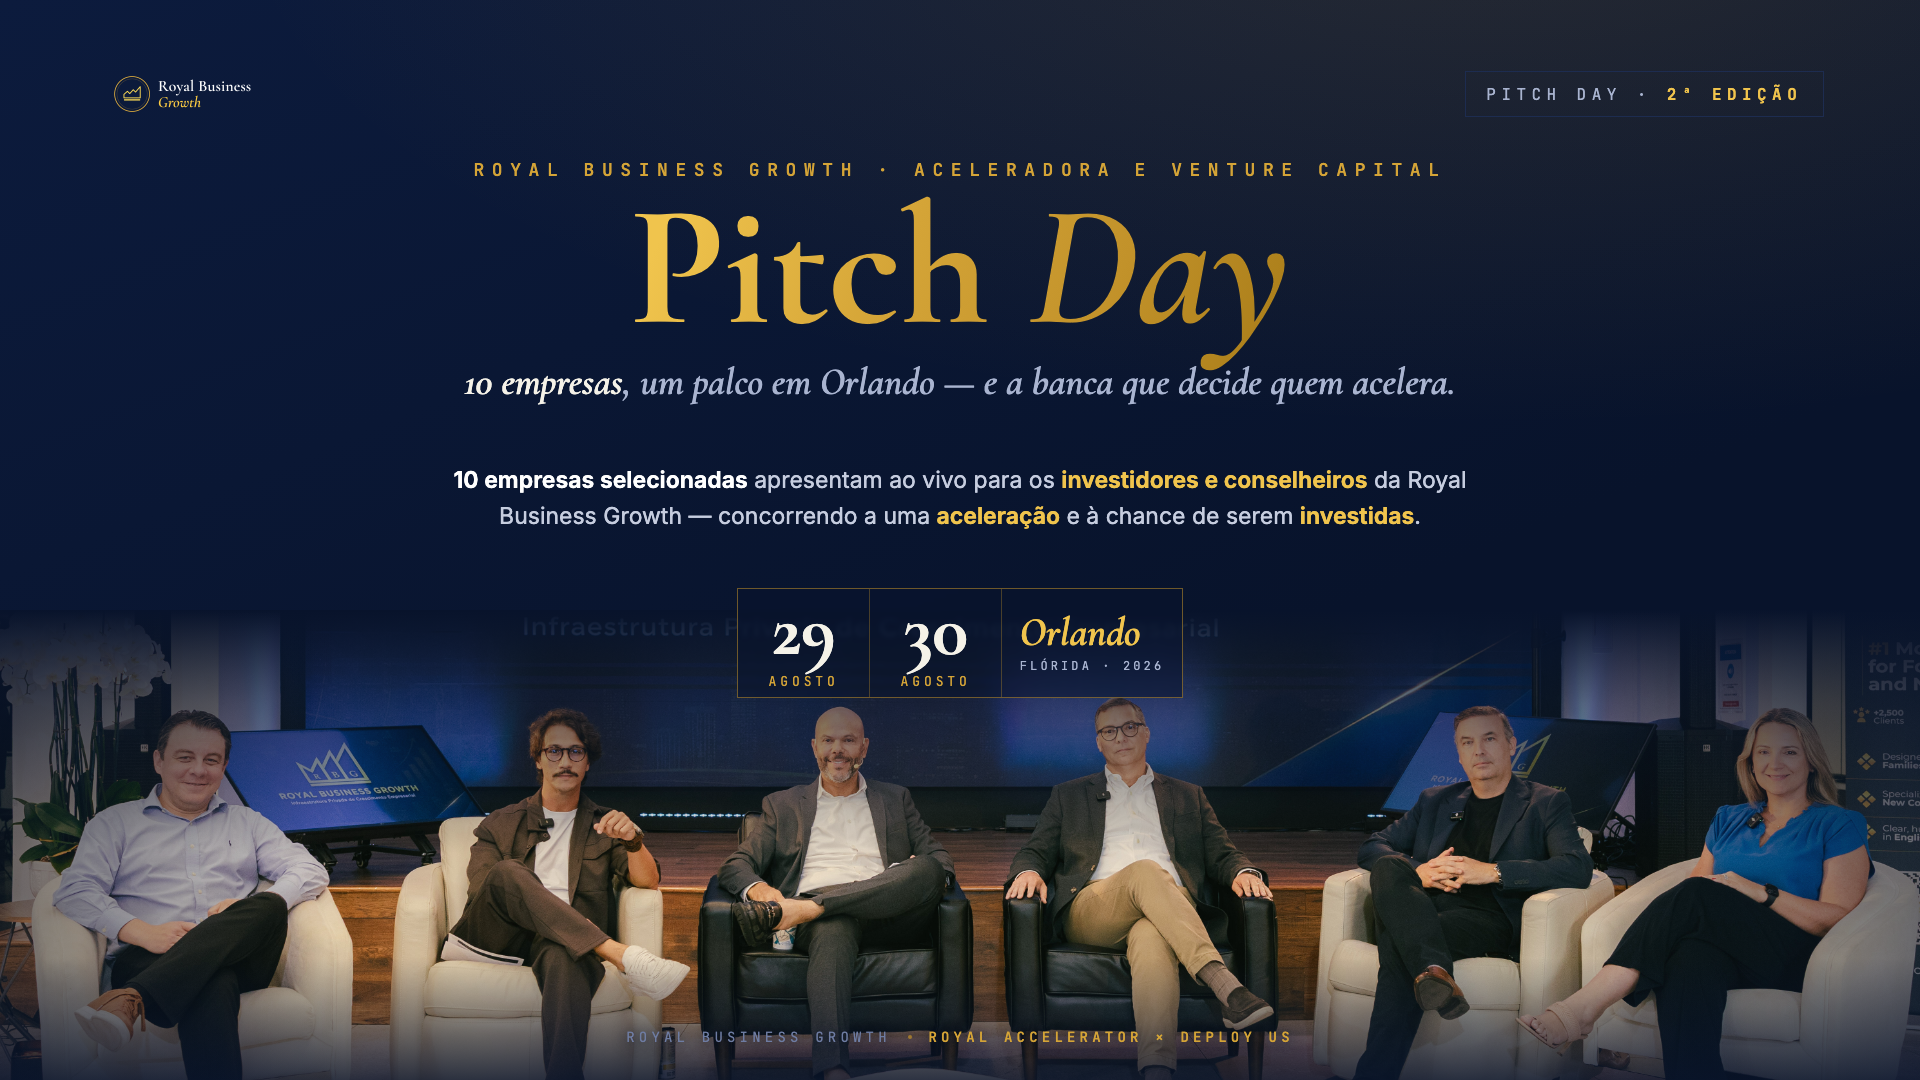
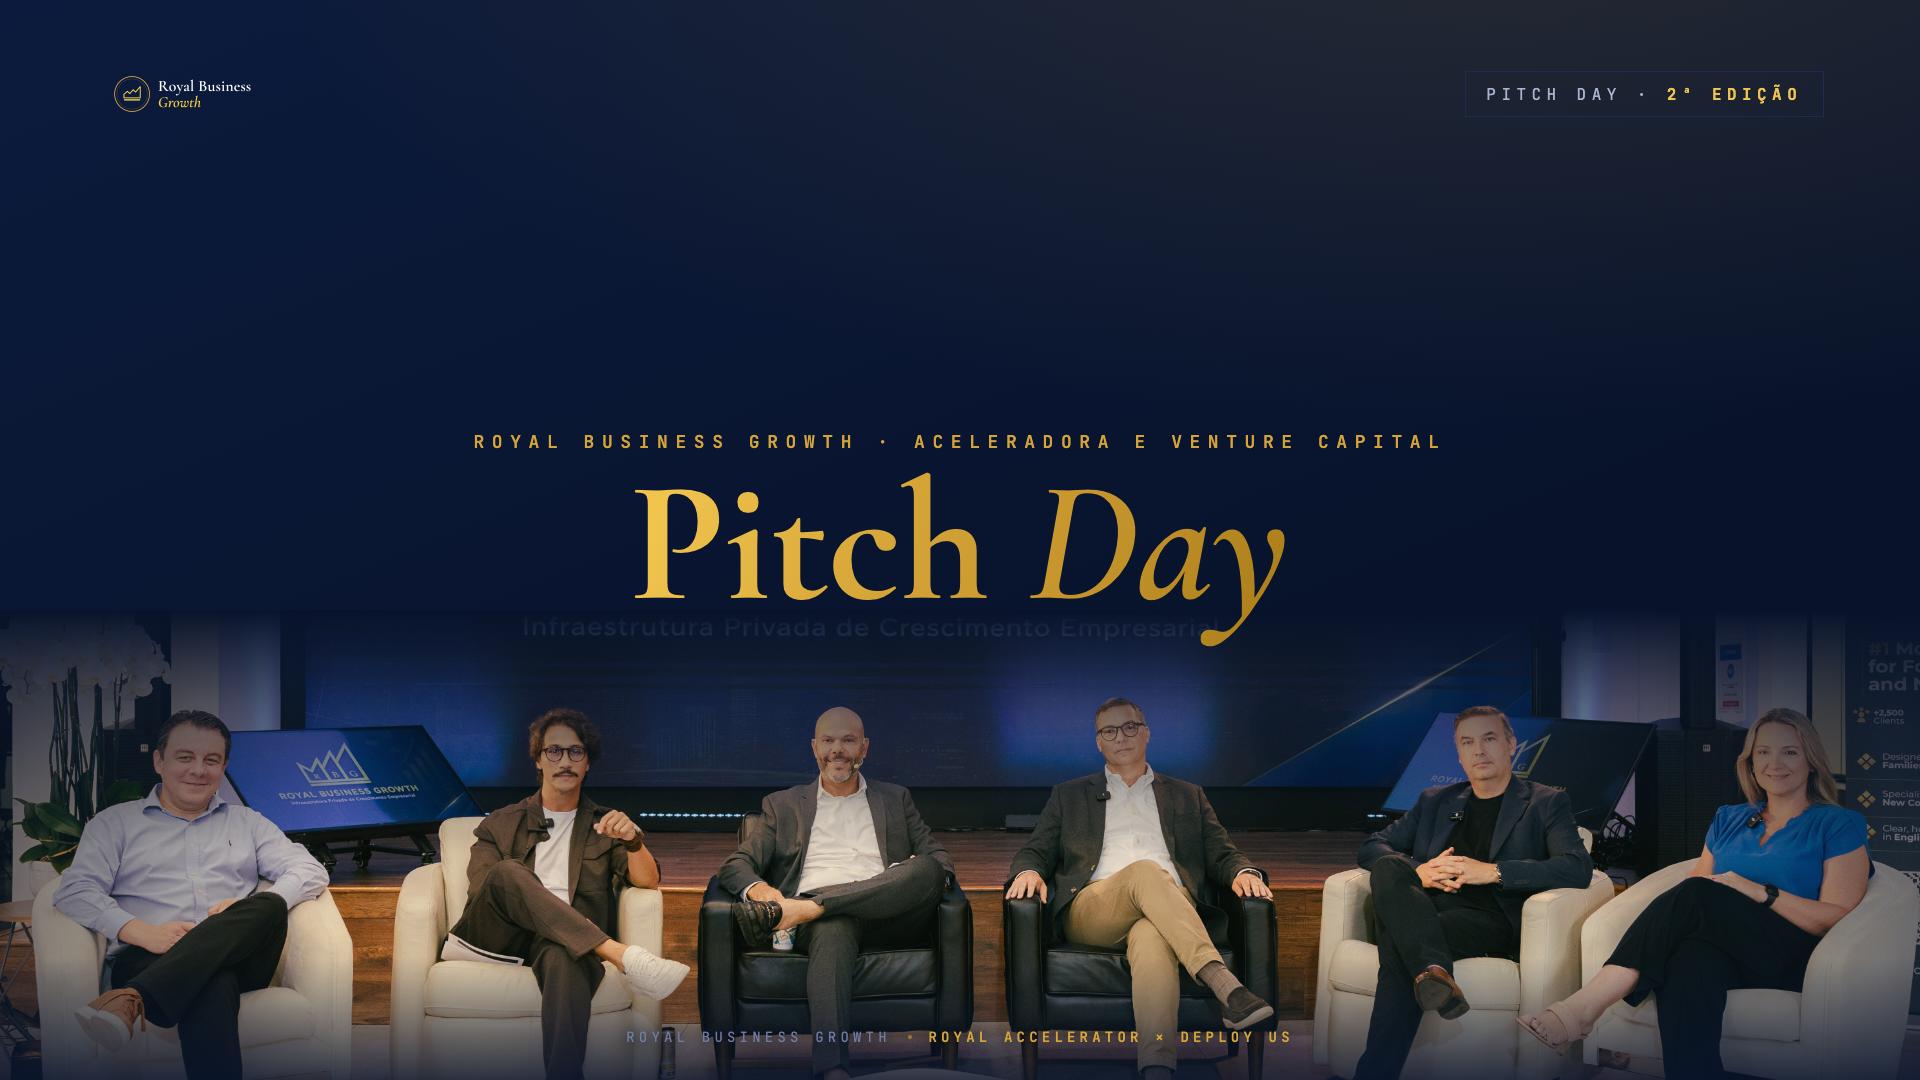
Simplify principal poster: drop company blurb and date box
Removes the "10 empresas" subtitle, the companies paragraph, and the
29/30 Agosto · Orlando date box. Pitch Day title moves down to sit
right where the date box was, close to the photo.

Claude-Session: https://claude.ai/code/session_019ZK6DnTAqSpNsSqcEorbQM

diff --git a/divulgacao/pitch-day-2/src/principal-1920x1080.html b/divulgacao/pitch-day-2/src/principal-1920x1080.html
@@ -11,30 +11,17 @@ body{width:1920px;height:1080px;position:relative}
 .photo::after{content:'';position:absolute;inset:0;
   background:linear-gradient(90deg, rgba(8,19,43,.5), rgba(8,19,43,0) 18% 82%, rgba(8,19,43,.5))}
 /* conteúdo superior */
-.top{position:absolute;left:0;right:0;top:0;height:640px;padding:46px 96px 0;text-align:center}
+.top{position:absolute;left:0;right:0;top:0;height:130px;padding:46px 96px 0;text-align:center}
 .hd{display:flex;justify-content:space-between;align-items:center}
 .hd .logo-lock img{height:96px;filter:brightness(1.12)}
 .hd .ed{font-family:'JetBrains Mono',monospace;letter-spacing:.34em;color:var(--on-2);
   text-transform:uppercase;font-size:16px;border:1px solid var(--on-rule);padding:.7em 1.3em}
 .hd .ed b{color:var(--gold-hi);font-weight:600}
-.eb{font-size:18px;margin-top:16px;display:block}
-h1{font-family:'Cormorant Garamond',serif;font-weight:700;font-size:172px;line-height:.94;margin-top:6px}
+/* bloco de título, baixo, encostado no início da foto */
+.titleblock{position:absolute;left:0;right:0;top:430px;text-align:center;z-index:3}
+.eb{font-size:18px;display:block}
+h1{font-family:'Cormorant Garamond',serif;font-weight:700;font-size:172px;line-height:.94;margin-top:10px}
 h1 .n2{font-style:italic}
-.sub{font-family:'Cormorant Garamond',serif;font-style:italic;font-size:38px;color:var(--on-2);
-  font-weight:500;margin-top:10px}
-.sub b{color:var(--on);font-weight:700}
-/* linha data + copy, sobre a emenda foto/navy */
-.band{position:absolute;left:0;right:0;top:588px;display:flex;justify-content:center;z-index:3}
-.datebox .d .n{font-size:74px}
-.datebox .d{min-width:132px}
-.datebox .d .m{font-size:13px}
-.datebox .loc .c{font-size:40px}
-.datebox .loc .s{font-size:12px}
-.copy{position:absolute;left:0;right:0;top:462px;z-index:3;display:flex;justify-content:center}
-.copy p{max-width:1060px;text-align:center;font-size:23px;line-height:1.58;color:#C6CDDF;
-  font-weight:400}
-.copy b{color:var(--gold-hi);font-weight:650}
-.copy strong{color:#fff;font-weight:650}
 .ft{position:absolute;left:0;right:0;bottom:34px;display:flex;justify-content:center;z-index:3}
 .ft .foot{font-size:14px;text-shadow:0 2px 14px rgba(8,19,43,.95)}
 </style></head><body>
@@ -44,19 +31,10 @@ h1 .n2{font-style:italic}
       <div class="logo-lock"><img src="logo-rbg-transp.png" alt=""></div>
       <div class="ed">PITCH DAY · <b>2ª EDIÇÃO</b></div>
     </div>
+  </div>
+  <div class="titleblock">
     <span class="eb">Royal Business Growth · Aceleradora e Venture Capital</span>
     <h1><span class="goldtext">Pitch <span class="n2">Day</span></span></h1>
-    <div class="sub"><b>10 empresas</b>, um palco em Orlando — e a banca que decide quem acelera.</div>
   </div>
-  <div class="band">
-    <div class="datebox">
-      <div class="d"><span class="n">29</span><span class="m">Agosto</span></div>
-      <div class="d"><span class="n">30</span><span class="m">Agosto</span></div>
-      <div class="loc"><span class="c">Orlando</span><span class="s">Flórida · 2026</span></div>
-    </div>
-  </div>
-  <div class="copy"><p><strong>10 empresas selecionadas</strong> apresentam ao vivo para os
-    <b>investidores e conselheiros</b> da Royal Business Growth — concorrendo a uma
-    <b>aceleração</b> e à chance de serem <b>investidas</b>.</p></div>
   <div class="ft"><div class="foot"><span>Royal Business Growth</span><span class="dot"></span><b>Royal Accelerator × Deploy US</b></div></div>
 </body></html>
